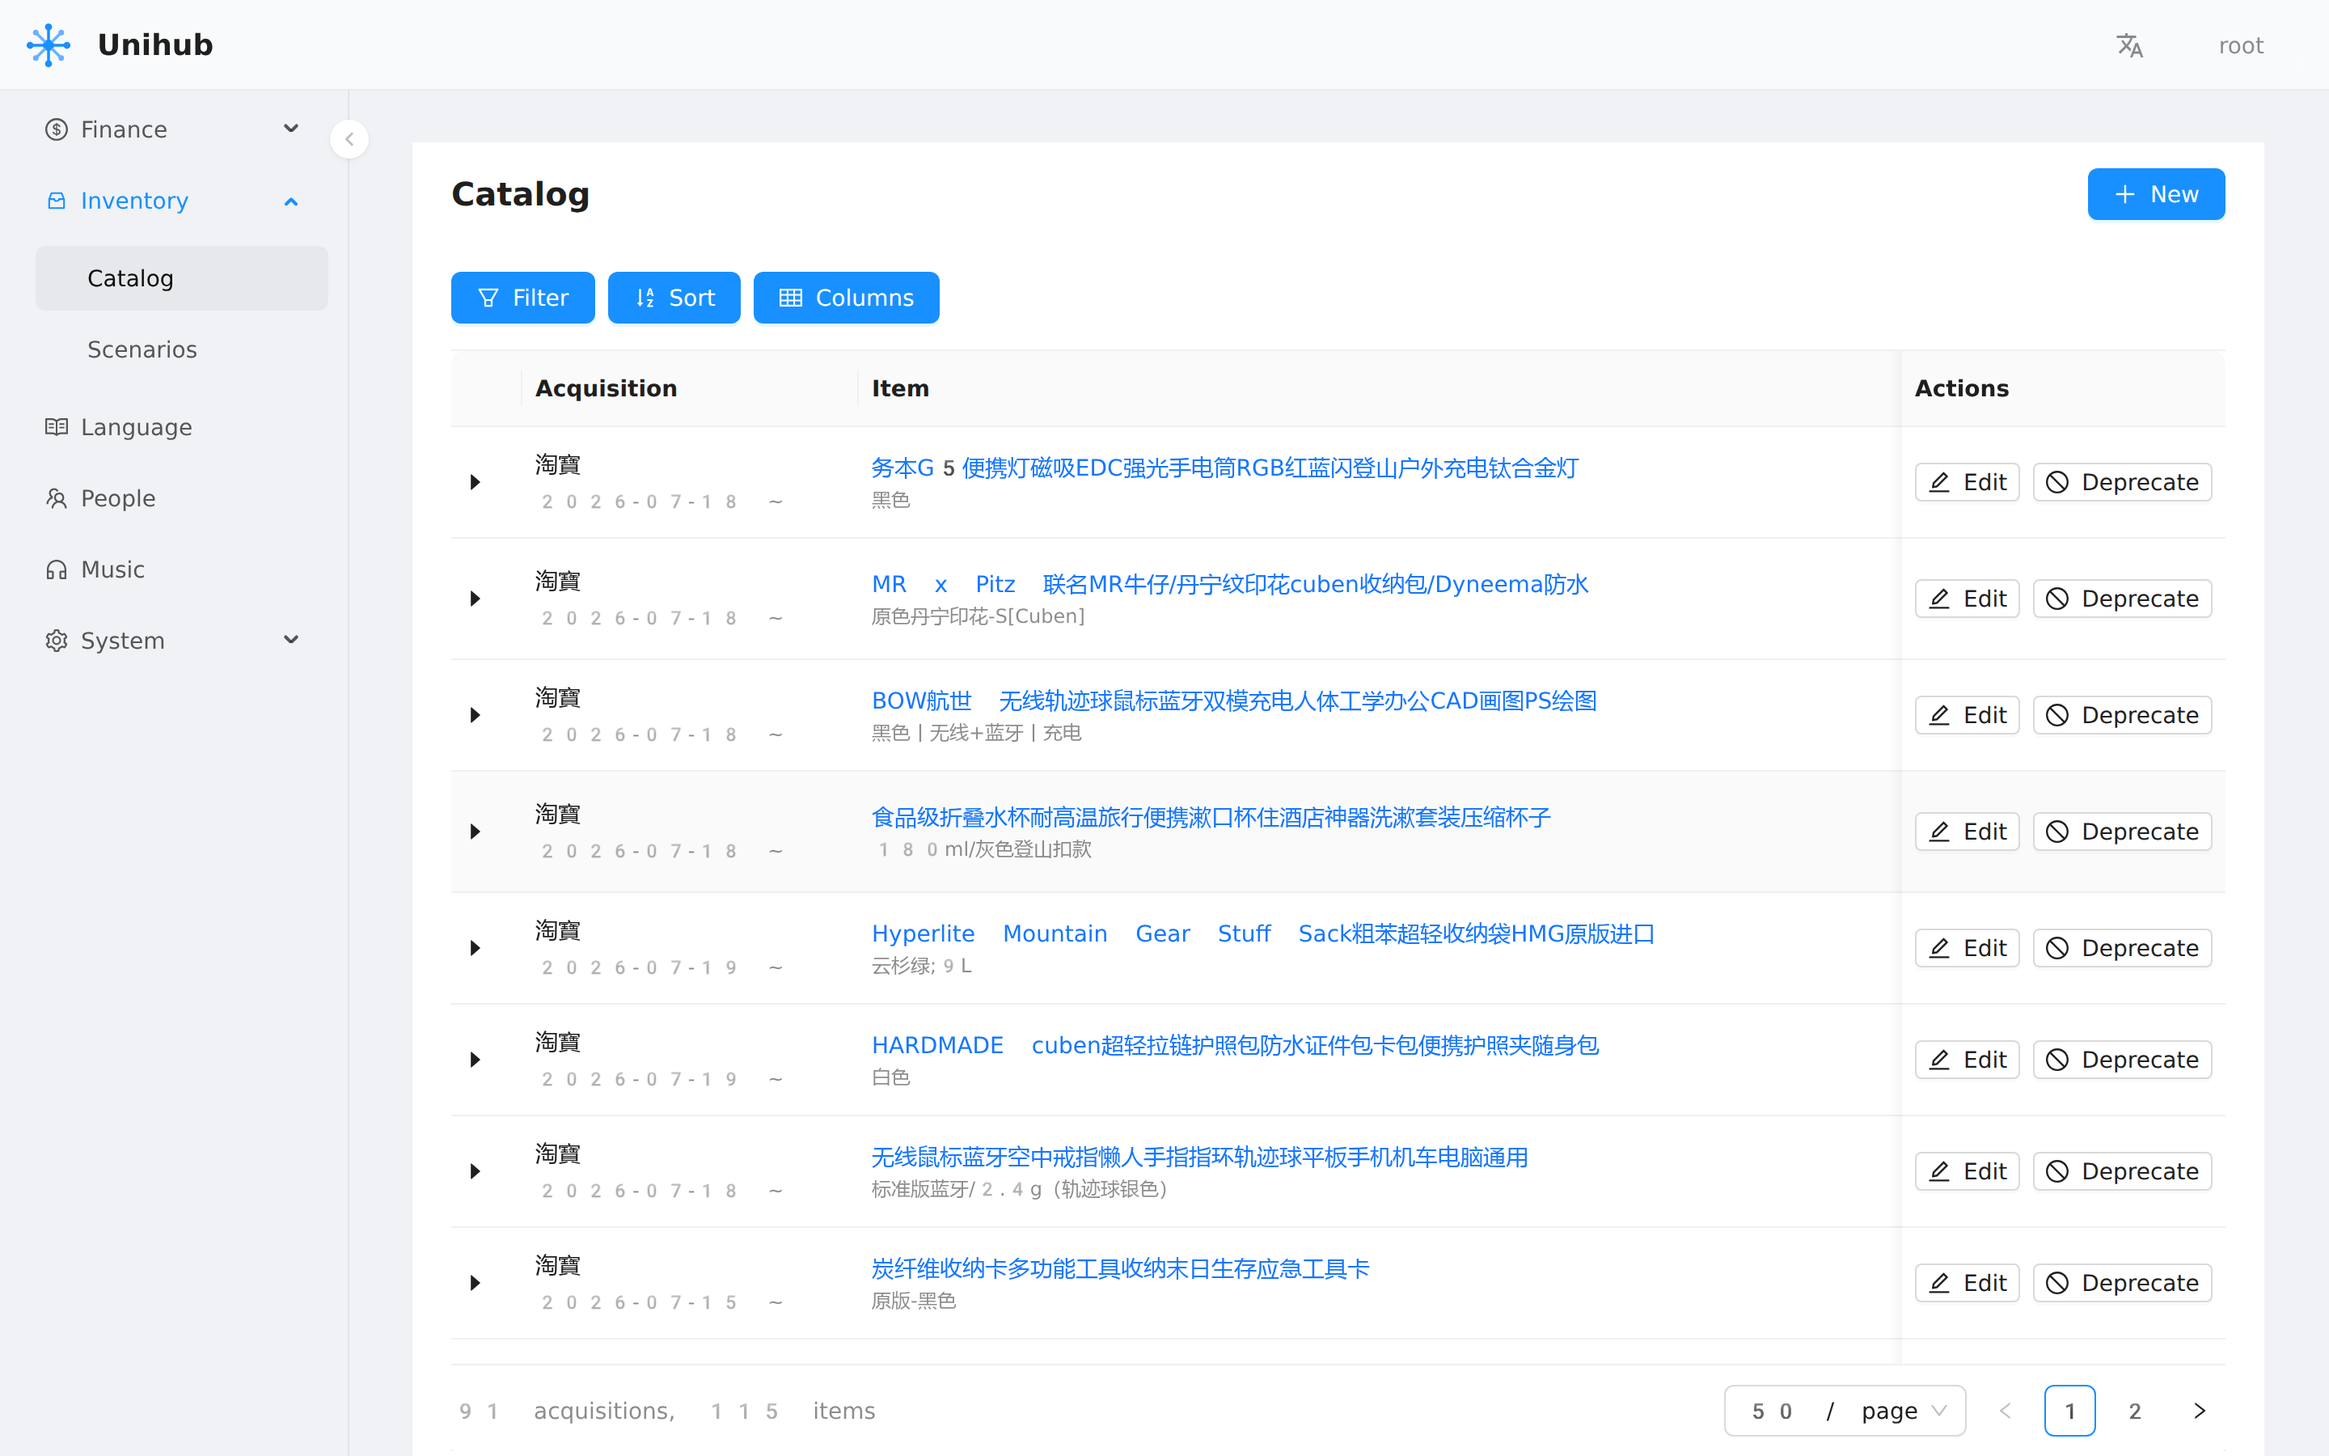
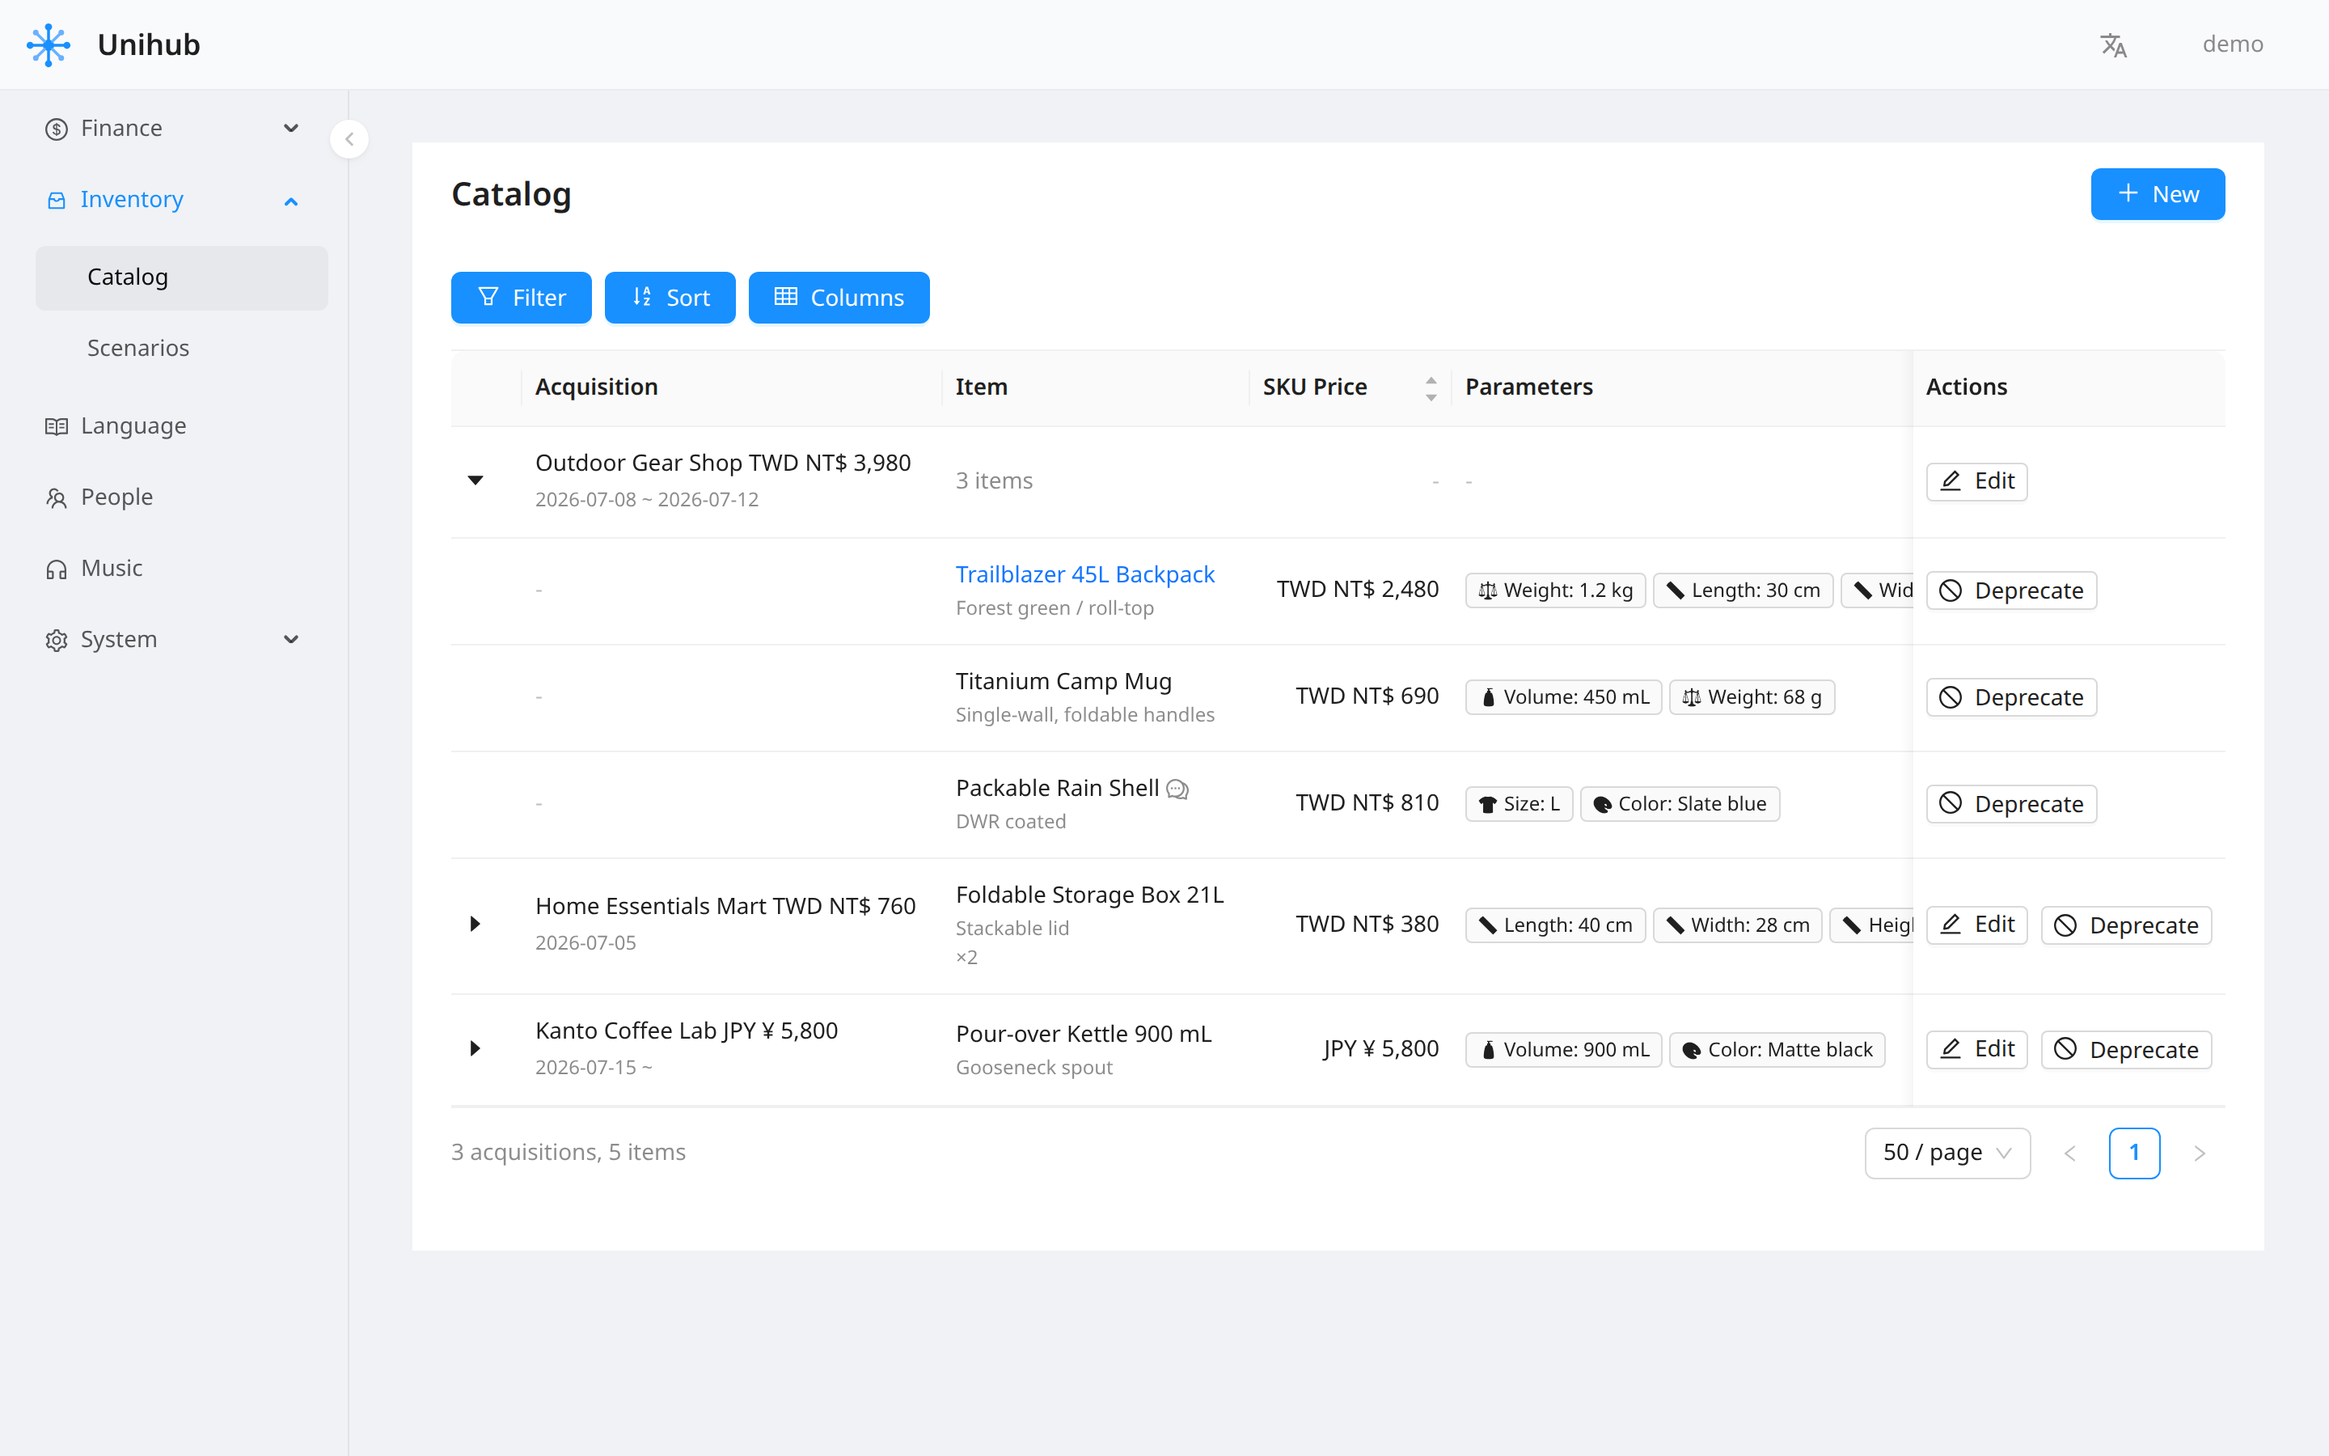
docs(unihub): regenerate 014 screenshots from mocked data (no personal records)

diff --git a/apps/unihub/frontend/e2e/take-screenshots-014.spec.ts b/apps/unihub/frontend/e2e/take-screenshots-014.spec.ts
@@ -1,8 +1,9 @@
 /**
  * Screenshot capture spec for PR 014-inventory-app.
- * Captures the REAL running app (docker stack with the imported legacy data):
- * catalog tree + parameter badges, deprecate-modal preview, acquisition edit,
- * scenario list/detail organize panes, and the Add-items modal.
+ * Playwright with FULLY MOCKED APIs and fictional data — PR screenshots must
+ * never show real personal records. Covers: catalog tree + parameter badges,
+ * deprecate-modal preview, acquisition edit, scenario list/detail organize
+ * panes, and the Add-items modal.
  */
 
 import { expect, test, type Page } from '@playwright/test';
@@ -19,34 +20,209 @@ function ss(name: string) { return path.join(OUT_DIR, name); }
 
 test.use({ viewport: { width: 1440, height: 900 }, deviceScaleFactor: 2 });
 
-async function login(page: Page) {
+// ── Mock data (fictional) ──────────────────────────────────────────────────────
+
+const CURRENCIES = [
+  { code: 'TWD', name: 'New Taiwan Dollar', symbol: 'NT$', is_base_currency: true },
+  { code: 'USD', name: 'US Dollar', symbol: '$', is_base_currency: false },
+  { code: 'JPY', name: 'Japanese Yen', symbol: '¥', is_base_currency: false },
+];
+
+const DEFS = [
+  ['ad-color', 'color', 'text', '', '🎨'],
+  ['ad-size', 'size', 'text', '', '👕'],
+  ['ad-weight', 'weight', 'dimension', 'weight', '⚖'],
+  ['ad-length', 'length', 'dimension', 'length', '📏'],
+  ['ad-width', 'width', 'dimension', 'length', '📏'],
+  ['ad-height', 'height', 'dimension', 'length', '📏'],
+  ['ad-volume', 'volume', 'dimension', 'volume', '🧴'],
+  ['ad-temperature', 'temperature', 'dimension', 'temperature', '🌡'],
+].map(([id, name, data_type, unit_family, emoji], i) => ({
+  id, content_type: 7, content_type_label: 'inventory.item', name, data_type,
+  unit_family, is_system: true, display_order: i, options: [], emoji,
+}));
+
+function param(defId: string, value: string, unit = '', num: string | null = null, max: string | null = null) {
+  const d = DEFS.find((x) => x.id === defId)!;
+  return {
+    definition_id: d.id, name: d.name, data_type: d.data_type,
+    unit_family: d.unit_family, emoji: d.emoji, value, unit,
+    value_number: num, value_number_max: max,
+  };
+}
+
+const T0 = '2026-07-12T09:00:00Z';
+
+function item(
+  id: string, name: string,
+  opts: {
+    spec?: string; remark?: string; quantity?: number; sku?: string | null;
+    cur?: string; url?: string; params?: ReturnType<typeof param>[];
+    acq?: { id: string; source: string; request_time: string | null; obtained_at: string | null; net_cost: { currency: string; total: string }[] } | null;
+  } = {},
+) {
+  return {
+    id, name, alias_name: '', quantity: opts.quantity ?? 1,
+    spec: opts.spec ?? '', remark: opts.remark ?? '',
+    sku_price: opts.sku ?? null, sku_price_currency: opts.cur ?? (opts.sku ? 'TWD' : ''),
+    total_price: opts.sku ?? null, url: opts.url ?? '',
+    status: 'active', deprecated: false, deprecate_time: null,
+    parameters: opts.params ?? [], acquisition: opts.acq ?? null,
+    created_at: T0, updated_at: T0,
+  };
+}
+
+const ACQ_A_SUMMARY = {
+  id: 'acq-a', source: 'Outdoor Gear Shop', request_time: '2026-07-08T10:00:00Z',
+  obtained_at: T0, net_cost: [{ currency: 'TWD', total: '3980.0000' }],
+};
+const ACQ_B_SUMMARY = {
+  id: 'acq-b', source: 'Home Essentials Mart', request_time: null,
+  obtained_at: '2026-07-05T14:00:00Z', net_cost: [{ currency: 'TWD', total: '760.0000' }],
+};
+const ACQ_C_SUMMARY = {
+  id: 'acq-c', source: 'Kanto Coffee Lab', request_time: '2026-07-15T08:00:00Z',
+  obtained_at: null, net_cost: [{ currency: 'JPY', total: '5800.0000' }],
+};
+
+const BACKPACK = item('it-pack', 'Trailblazer 45L Backpack', {
+  spec: 'Forest green / roll-top', sku: '2480.0000', url: 'https://example.com/pack',
+  params: [
+    param('ad-weight', '1.2', 'kg', '1200.0000'),
+    param('ad-length', '30', 'cm', '300.0000'),
+    param('ad-width', '26', 'cm', '260.0000'),
+    param('ad-height', '55', 'cm', '550.0000'),
+    param('ad-volume', '45', 'L', '45000.0000'),
+  ],
+  acq: ACQ_A_SUMMARY,
+});
+const MUG = item('it-mug', 'Titanium Camp Mug', {
+  spec: 'Single-wall, foldable handles', sku: '690.0000',
+  params: [param('ad-volume', '450', 'mL', '450.0000'), param('ad-weight', '68', 'g', '68.0000')],
+  acq: ACQ_A_SUMMARY,
+});
+const SHELL_JACKET = item('it-shell', 'Packable Rain Shell', {
+  spec: 'DWR coated', remark: 'Runs small — size up', sku: '810.0000',
+  params: [param('ad-size', 'L'), param('ad-color', 'Slate blue')],
+  acq: ACQ_A_SUMMARY,
+});
+const STORAGE_BOX = item('it-box', 'Foldable Storage Box 21L', {
+  spec: 'Stackable lid', quantity: 2, sku: '380.0000',
+  params: [
+    param('ad-length', '40', 'cm', '400.0000'),
+    param('ad-width', '28', 'cm', '280.0000'),
+    param('ad-height', '24', 'cm', '240.0000'),
+    param('ad-volume', '21', 'L', '21000.0000'),
+    param('ad-temperature', '-20~110', '°C', '-20.0000', '110.0000'),
+  ],
+  acq: ACQ_B_SUMMARY,
+});
+const KETTLE = item('it-kettle', 'Pour-over Kettle 900 mL', {
+  spec: 'Gooseneck spout', sku: '5800.0000', cur: 'JPY',
+  params: [param('ad-volume', '900', 'mL', '900.0000'), param('ad-color', 'Matte black')],
+  acq: ACQ_C_SUMMARY,
+});
+
+const ITEMS = [BACKPACK, MUG, SHELL_JACKET, STORAGE_BOX, KETTLE];
+
+const ACQS = [
+  {
+    id: 'acq-a', source: 'Outdoor Gear Shop', request_time: ACQ_A_SUMMARY.request_time,
+    obtained_at: T0, remark: 'Summer sale — member discount applied',
+    cost_factors: [{ id: 'cf-a1', value: '3980.0000', currency: 'TWD', type: 'accumulated', display_order: 0 }],
+    net_cost: ACQ_A_SUMMARY.net_cost, items: [BACKPACK, MUG, SHELL_JACKET], item_count: 3,
+    created_at: T0, updated_at: T0,
+  },
+  {
+    id: 'acq-b', source: 'Home Essentials Mart', request_time: null,
+    obtained_at: ACQ_B_SUMMARY.obtained_at, remark: '',
+    cost_factors: [{ id: 'cf-b1', value: '760.0000', currency: 'TWD', type: 'accumulated', display_order: 0 }],
+    net_cost: ACQ_B_SUMMARY.net_cost, items: [STORAGE_BOX], item_count: 1,
+    created_at: T0, updated_at: T0,
+  },
+  {
+    id: 'acq-c', source: 'Kanto Coffee Lab', request_time: ACQ_C_SUMMARY.request_time,
+    obtained_at: null, remark: 'Pre-order — ships next week',
+    cost_factors: [
+      { id: 'cf-c1', value: '5300.0000', currency: 'JPY', type: 'accumulated', display_order: 0 },
+      { id: 'cf-c2', value: '500.0000', currency: 'JPY', type: 'shipping', display_order: 1 },
+    ],
+    net_cost: ACQ_C_SUMMARY.net_cost, items: [KETTLE], item_count: 1,
+    created_at: T0, updated_at: T0,
+  },
+];
+
+const SCENARIOS = [
+  { id: 'sc-camp', name: 'Weekend Camping', description: 'Two-day mountain trip', item_count: 4, created_at: T0, updated_at: T0 },
+  { id: 'sc-trip', name: 'Business Trip', description: 'Carry-on only', item_count: 0, created_at: T0, updated_at: T0 },
+  { id: 'sc-beach', name: 'Beach Day', description: '', item_count: 0, created_at: T0, updated_at: T0 },
+];
+
+const SCENARIO_ITEMS = [
+  { id: 'si-pack', item: BACKPACK, container: null, display_order: 0, organized: true, notes: '', created_at: T0 },
+  { id: 'si-mug', item: MUG, container: { id: 'si-pack', item_name: BACKPACK.name }, display_order: 0, organized: true, notes: '', created_at: T0 },
+  { id: 'si-shell', item: SHELL_JACKET, container: { id: 'si-pack', item_name: BACKPACK.name }, display_order: 1, organized: true, notes: '', created_at: T0 },
+  { id: 'si-kettle', item: KETTLE, container: null, display_order: 0, organized: false, notes: '', created_at: T0 },
+];
+
+function paginated(results: unknown[], totals?: Record<string, number>) {
+  return { count: results.length, next: null, previous: null, results, ...(totals ? { totals } : null) };
+}
+
+async function mockApi(page: Page) {
   await page.addInitScript(() => localStorage.setItem('unihub-locale', 'en-US'));
-  await page.goto('/login');
-  await page.fill('#username', 'root');
-  await page.fill('#password', 'root');
-  await page.click('button[type="submit"]');
-  await page.waitForURL((url) => !url.pathname.includes('/login'), { timeout: 10_000 });
+  // Catch-all first — later, more specific routes take precedence.
+  await page.route('**/api/**', (r) => r.fulfill({ json: paginated([]) }));
+  await page.route('**/api/v1/auth/me/**', (r) =>
+    r.fulfill({ json: { id: 1, username: 'demo', is_staff: true } }),
+  );
+  await page.route('**/api/v1/finance/currencies/**', (r) =>
+    r.fulfill({ json: paginated(CURRENCIES) }),
+  );
+  await page.route('**/api/v1/core/attribute-definitions/**', (r) =>
+    r.fulfill({ json: DEFS }),
+  );
+  await page.route(
+    (url) => url.pathname === '/api/v1/inventory/acquisitions/',
+    (r) => r.fulfill({ json: paginated(ACQS, { acquisitions: 3, items: 5 }) }),
+  );
+  await page.route('**/api/v1/inventory/acquisitions/acq-a/**', (r) =>
+    r.fulfill({ json: ACQS[0] }),
+  );
+  await page.route('**/api/v1/inventory/acquisitions/sources/**', (r) =>
+    r.fulfill({ json: ACQS.map((a) => a.source) }),
+  );
+  await page.route(
+    (url) => url.pathname === '/api/v1/inventory/items/',
+    (r) => r.fulfill({ json: paginated(ITEMS) }),
+  );
+  await page.route(
+    (url) => url.pathname === '/api/v1/inventory/scenarios/',
+    (r) => r.fulfill({ json: paginated(SCENARIOS) }),
+  );
+  await page.route('**/api/v1/inventory/scenarios/sc-camp/', (r) =>
+    r.fulfill({ json: SCENARIOS[0] }),
+  );
+  await page.route('**/api/v1/inventory/scenarios/sc-camp/items/**', (r) =>
+    r.fulfill({ json: SCENARIO_ITEMS }),
+  );
 }
 
 test.beforeEach(async ({ page }) => {
-  await login(page);
+  await mockApi(page);
 });
+
+// ── Tests ──────────────────────────────────────────────────────────────────────
 
 test('01+02+03 catalog: overview, badges, deprecate preview', async ({ page }) => {
   await page.goto('/inventory/catalog');
-  await expect(page.locator('tr.ant-table-row').first()).toBeVisible({ timeout: 15_000 });
+  await expect(page.getByText('Trailblazer 45L Backpack')).toBeVisible({ timeout: 15_000 });
   await page.waitForTimeout(1200);
   await page.screenshot({ path: ss('01-catalog-overview.png') });
 
-  // Close-up of a row block with parameter badges (emoji ink centering).
-  const tagRow = page.locator('tr.ant-table-row:has([data-testid="key-emoji"])').first();
-  await tagRow.scrollIntoViewIfNeeded();
-  await page.waitForTimeout(400);
-  await tagRow.screenshot({ path: ss('02-catalog-parameter-badges.png') });
 
   // Deprecate modal with the item preview (FR-003c).
   const depBtn = page.locator('tr.ant-table-row button', { hasText: 'Deprecate' }).first();
-  await depBtn.scrollIntoViewIfNeeded();
   await depBtn.click();
   await expect(page.getByTestId('deprecate-preview')).toBeVisible({ timeout: 5_000 });
   await page.waitForTimeout(600);
@@ -54,33 +230,31 @@ test('01+02+03 catalog: overview, badges, deprecate preview', async ({ page }) =
 });
 
 test('04 acquisition edit: item cards + cost factors', async ({ page }) => {
-  await page.goto('/inventory/catalog');
-  await expect(page.locator('tr.ant-table-row').first()).toBeVisible({ timeout: 15_000 });
-  const edit = page.locator('tr.ant-table-row a', { hasText: 'Edit' }).first();
-  await edit.click();
-  await expect(page.locator('.ant-card').first()).toBeVisible({ timeout: 15_000 });
+  await page.goto('/inventory/acquisitions/acq-a/edit');
+  await expect(page.getByText('Titanium Camp Mug')).toBeVisible({ timeout: 15_000 });
   await page.waitForTimeout(1200);
   await page.screenshot({ path: ss('04-acquisition-edit.png') });
 });
 
 test('05+06+07 scenarios: list, organize panes, add modal', async ({ page }) => {
   await page.goto('/inventory/scenarios');
-  await expect(page.locator('tr.ant-table-row').first()).toBeVisible({ timeout: 15_000 });
+  await expect(page.getByText('Weekend Camping')).toBeVisible({ timeout: 15_000 });
   await page.waitForTimeout(800);
   await page.screenshot({ path: ss('05-scenario-list.png') });
 
-  // Pick a scenario whose organize panes hold rows with parameter badges.
-  const links = page.locator('tr.ant-table-row a');
-  const n = await links.count();
-  for (let s = 0; s < n; s++) {
-    await page.goto('/inventory/scenarios');
-    await expect(page.locator('tr.ant-table-row a').first()).toBeVisible({ timeout: 15_000 });
-    await links.nth(s).click();
-    await expect(page.locator('.ant-splitter').first()).toBeVisible({ timeout: 15_000 });
-    await page.waitForTimeout(1000);
-    if ((await page.locator('[data-testid="key-emoji"]').count()) > 3) break;
-  }
+  await page.getByText('Weekend Camping').click();
+  await expect(page.locator('.ant-splitter')).toBeVisible({ timeout: 15_000 });
+  await expect(page.getByText('Pour-over Kettle 900 mL').first()).toBeVisible({ timeout: 10_000 });
+  await page.waitForTimeout(1000);
   await page.screenshot({ path: ss('06-scenario-organize.png') });
+
+  // Close-up of a full parameter-badge row (emoji ink centering) — the
+  // backpack's five badges on the organize row, where no sticky column clips.
+  const badgeRow = page
+    .locator('[data-testid^="org-row-"] .ant-space:has([data-testid="key-emoji"])')
+    .filter({ hasText: 'Height: 55 cm' })
+    .first();
+  await badgeRow.screenshot({ path: ss('02-parameter-badges.png') });
 
   await page.locator('.ant-card', { hasText: 'Organize' }).first()
     .locator('button').filter({ hasText: /^Add$/ }).first().click();
